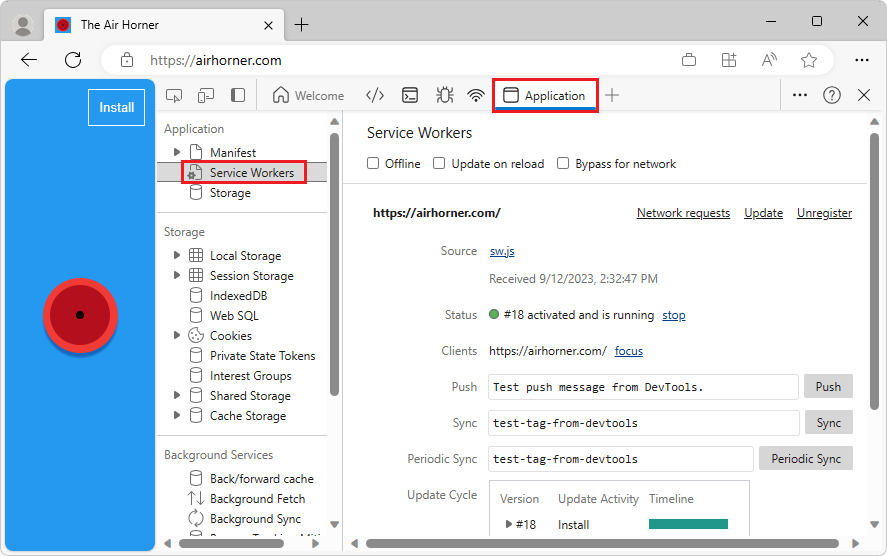
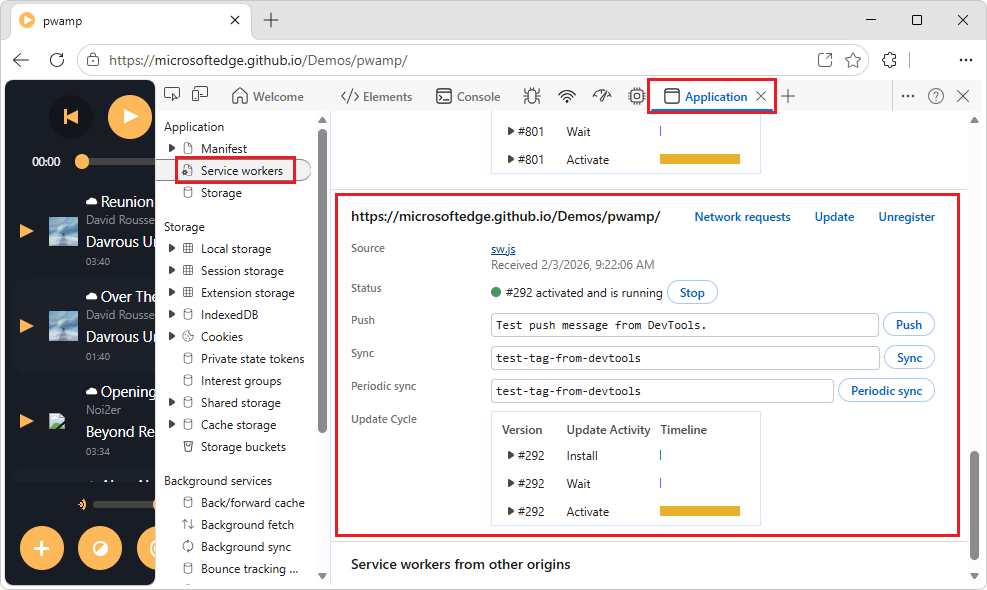
sw's: pwamp not airhorner

diff --git a/microsoft-edge/devtools/progressive-web-apps/index.md b/microsoft-edge/devtools/progressive-web-apps/index.md
@@ -346,20 +346,20 @@ To test a handler:
 ## Service workers
 <!-- https://developer.chrome.com/docs/devtools/progressive-web-apps/#service-workers -->
 
-Service workers are a fundamental technology in the web platform.  Service workers are scripts that the browser runs in the background, separate from a webpage.  Service worker scripts enable your app to access features that don't need a webpage or user interaction, such as push notifications, background sync, and offline experiences.
+Service workers are a fundamental technology in the web platform.  A _service worker_ is a script that the browser runs in the background, separate from a webpage.  Service worker scripts enable your app to access features that don't need a webpage or user interaction, such as:
+* Push notifications.
+* Background sync.
+* Offline experiences.
 
-Related guides:
-* [Intro to Service Workers] /web/fundamentals/primers/service-worker
-* [Push Notifications: Timely, Relevant, and Precise] /web/fundamentals/push-notifications
-* [How Push Works] /web/fundamentals/push-notifications/how-push-works
-
-todo: link to sections when available
+See also:
+* [Service worker overview](https://developer.chrome.com/docs/workbox/service-worker-overview) at `developer.chrome.com`.
+* [Push notifications overview](https://web.dev/push-notifications-overview/) at `web.dev`.
 
 The main place in DevTools to inspect and debug service workers is the **Service workers** pane in the ![Application icon](./index-images/application-icon.png) **Application** tool.
 
 To view service workers:
 
-1. Go to a webpage, such as [Airhorner.com](https://airhorner.com) (todo: PWAmp), in a new window or tab.
+1. Go to a webpage that uses service workers, such as the [PWAmp](https://microsoftedge.github.io/Demos/pwamp/) demo, in a new window or tab.
 
 1. Right-click the webpage, and then select **Inspect**.
 
@@ -371,11 +371,15 @@ To view service workers:
 
    The **Service workers** pane is displayed:
 
-![The Service workers pane](./index-images/service-workers-pane.png) (todo: latest ui has 'w'; can redo png)
+   ![The Service workers pane](./index-images/service-workers-pane.png)
 
-* If a service worker is installed to the currently open page, then the service worker is listed in the **Service workers** pane.  For example, in the previous figure, there is a service worker installed for the scope of `https://weather-pwa-sample.firebaseapp.com`.  (todo: update when use PWAmp instead of Airhorner)
+   todo: why does "Application > Service workers" for PWAmp demo list SWs for /pwa-timer/, /wami/, /pwa-to-do/, & /1DIV/, as well as /pwamp/?
 
-* The **Offline** checkbox puts DevTools into offline mode.  This is equivalent to the offline mode available from the ![Network icon](./index-images/network-icon.png) **Network** tool, or the `Go offline` option in the [Command Menu](../command-menu/index.md).
+* If a service worker is installed to the currently open page, then the service worker is listed in the **Service workers** pane.  For example, in the previous figure, there is a service worker installed for the scope of `https://weather-pwa-sample.firebaseapp.com`.  (todo: update for PWAmp instead of Airhorner)
+
+* The **Offline** checkbox puts DevTools into offline mode.  This is equivalent to:
+   * The offline mode that's available from the ![Network icon](./index-images/network-icon.png) **Network** tool.
+   * The `Go offline` option in the [Command Menu](../command-menu/index.md).
 
 * The **Update on reload** checkbox forces the service worker to update on every page load.
 
